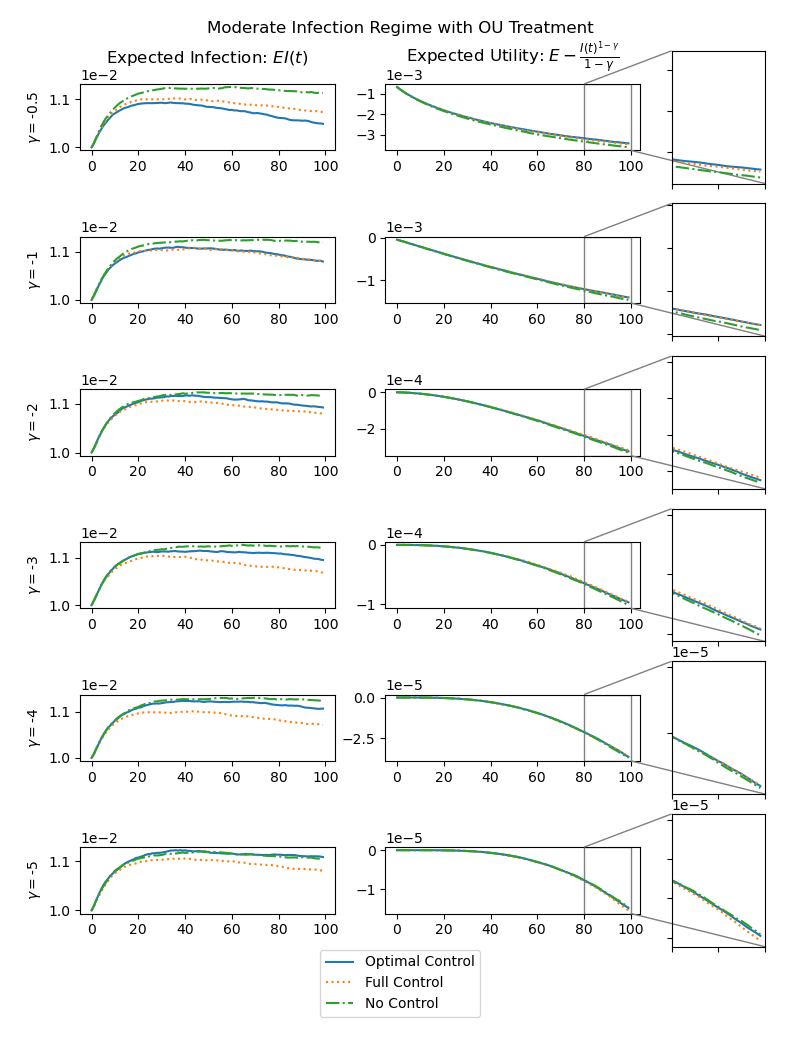
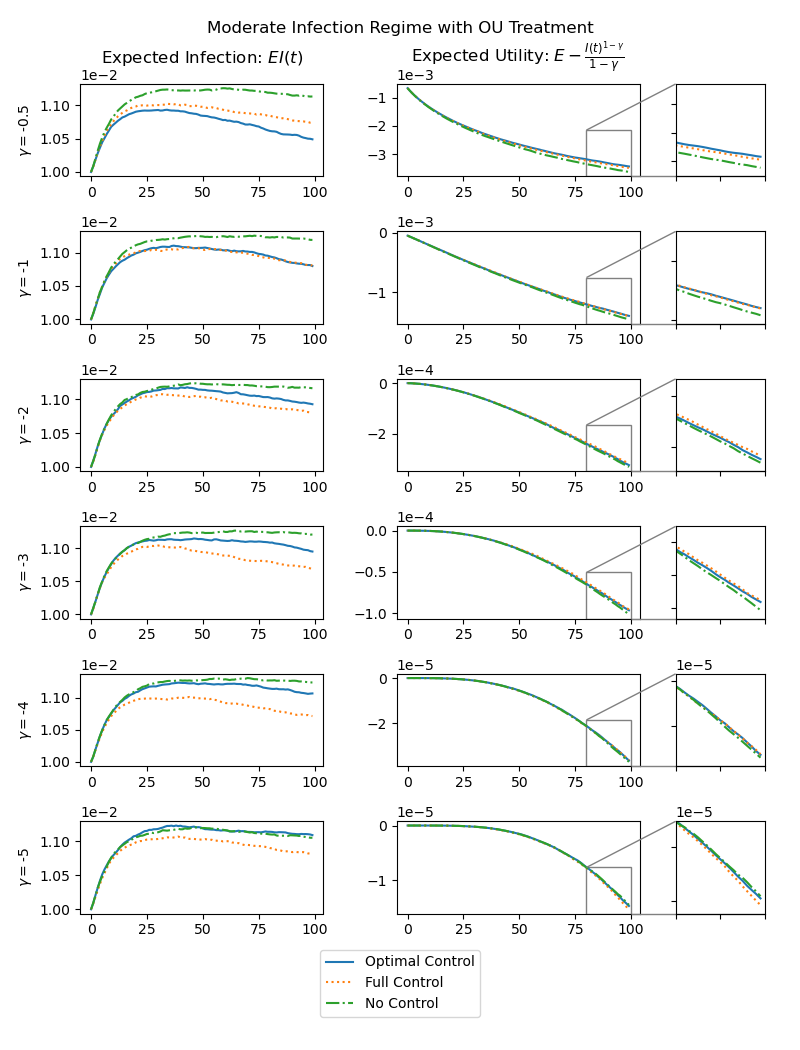
Revise zoom in plots and rerun moderate regime. Initialize test for ploting real data.

diff --git a/library/plot_generator.py b/library/plot_generator.py
@@ -66,7 +66,7 @@ class PlotGenerator:
             yfmt.set_powerlimits((0, 0))
             axes[i, 1].yaxis.set_major_formatter(yfmt)
 
-            is_zoom_out_plots=False
+            is_zoom_out_plots=True
             if is_zoom_out_plots:
                 axins = zoomed_inset_axes(axes[i, 1], 2, loc='right',borderpad=-9)  # zoom = 2
                 for result_key in result_keys:
@@ -74,9 +74,9 @@ class PlotGenerator:
                     axins.plot(model_result.average_simulation_result.Utility,
                         label=result_key,
                         linestyle=result_key_to_line_style[result_key])
-                # bottom, top = axins.get_ylim()
+                bottom, top = axins.get_ylim()
                 axins.set_xlim(80, 100)
-                # axins.set_ylim(bottom, top-(top-bottom)/2)
+                axins.set_ylim(bottom, top-(top-bottom)/2)
                 plt.xticks(visible=False)
                 plt.yticks(visible=False)
                 mark_inset(axes[i, 1], axins, loc1=2, loc2=4, fc="none", ec="0.5")
@@ -90,7 +90,7 @@ class PlotGenerator:
         # Format plot
         fig.set_size_inches(8, 10.5)
         if is_zoom_out_plots:
-            fig.subplots_adjust(left=0.1, bottom=0.13, right=0.8, top=0.92, wspace=0.2, hspace=1.3)
+            fig.subplots_adjust(left=0.1, bottom=0.13, right=0.8, top=0.92, wspace=0.3, hspace=0.6)
         else:
             fig.subplots_adjust(left=0.1, bottom=0.13, right=0.95, top=0.92, wspace=0.3, hspace=0.6)
 

diff --git a/library/run_config.py b/library/run_config.py
@@ -6,7 +6,7 @@ from library.models import model_params
 
 @dataclass
 class RunConfig:
-    model: str = ModelTypes.LowConst
+    model: str = ModelTypes.ModerateConst
     gammas: List = field(default_factory=lambda: [-0.5,-1,-2,-3,-4,-5])
     # gammas: List = field(default_factory=lambda: [-1, -2])
     T = 1
@@ -22,7 +22,7 @@ class RunConfig:
     is_include_no_control: bool = True
     is_simulation: bool = True
     n_steps_simulated_data_generation: int = 100
-    n_trials_simulated_data_generation: int = 100   #10
+    n_trials_simulated_data_generation: int = 100   #100
     # seed: int = None  # Set to None to turn off seeding
     n_trials_monte_carlo_simulation: int = 10000  #10000
     # seed: int = 0  # Set to None to turn off seeding

diff --git a/test/test_plot_real_data.py b/test/test_plot_real_data.py
@@ -1,0 +1,21 @@
+from library.run_config import RunConfig
+import pickle
+from library.plot_generator import PlotGenerator
+from library.conf import cur_dir_path
+from library.models.model_mapper import ModelTypes
+
+def test_plot_real_data():
+    run_config = RunConfig(model=ModelTypes.LowConst,
+                           is_simulation=False,
+                           n_trials_simulated_data_generation=1,
+                           n_trials_monte_carlo_simulation=1
+                           )
+
+
+    plot_generator = PlotGenerator()
+    plot_generator.plot(
+        gammas=run_config.gammas,
+        gamma_to_results=average_gamma_to_results,
+        is_simulation=run_config.is_simulation,
+        model=run_config.model
+    )
